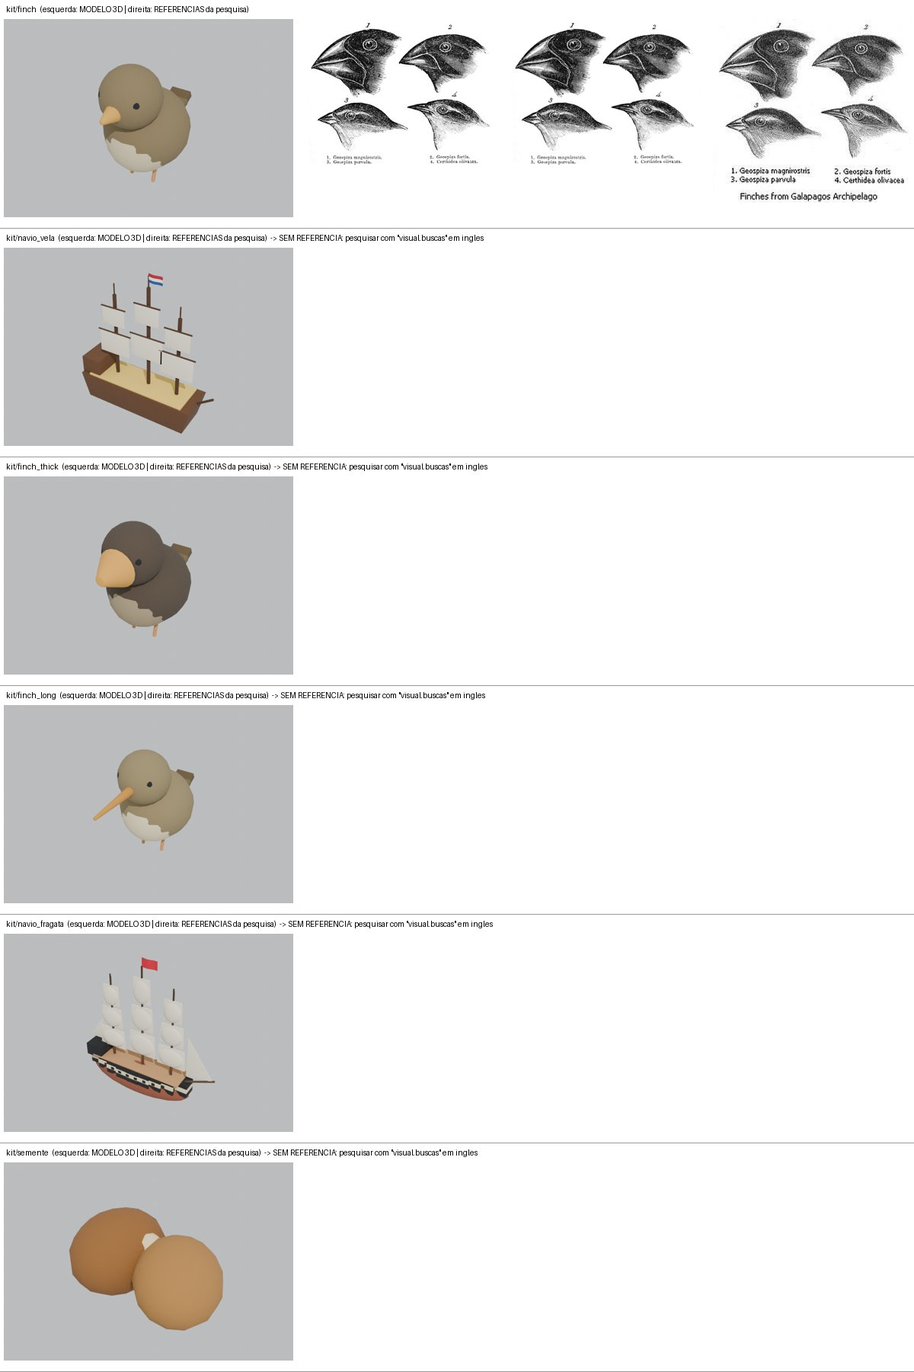
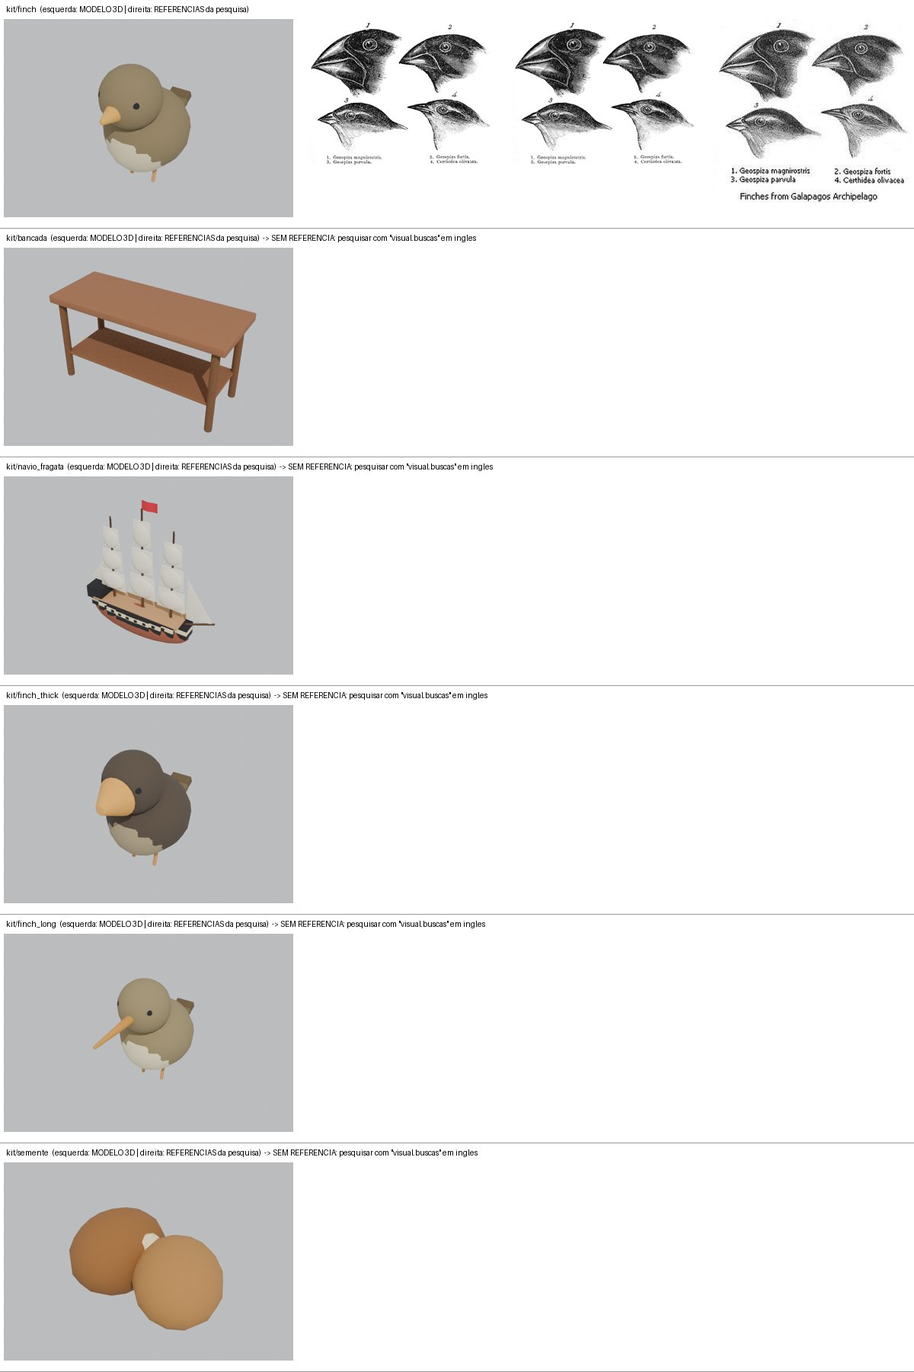
Darwin: storyboard aprovado (tentilhoes em tamanho real, excecao justificada)
Claude-Session: https://claude.ai/code/session_01HE8Dy3UcXXZZMLa7uzjNJD

diff --git a/ferramenta-shorts/stories/darwin1835/folha2_producao.md b/ferramenta-shorts/stories/darwin1835/folha2_producao.md
@@ -11,6 +11,18 @@ Coordenadas de cada cena para modelagem, animacao e camera, com os RISCOS que o 
 - Objetos/modelos: kit/finch, kit/bancada
 - CONFERIR NA FOLHA DE CONTATO (o que a narracao cita tem que aparecer): cientista, etiquetas, terra
 - RISCOS: nenhum
+<!-- FICHA -->
+
+### FICHA TECNICA DA CENA (lugar, camera, personagens, objetos, efeitos, texto)
+- LOCAL: cais de madeira na beira do mar (agua e horizonte ao fundo); hora: day
+- CAMERA: plano medio, 2 personagens de corpo inteiro; plano medio enquadrando personagens e finch juntos (camera a 11.5 m)
+- PERSONAGENS: DAR (cientista) na esquerda, expressao smile; MAR (marinheiro) na direita, expressao surprised; sem multidao; acao: fala/gesto
+- OBJETO kit/finch: MEIO, centro (objeto principal da cena); tamanho na tela: 32% da altura da tela; estado: PARADO; 0.9 m: entre e um pouco atras dos personagens, mesmo plano, tamanho de uma pessoa
+- OBJETO kit/bancada: MEIO, direita; tamanho na tela: 32% da altura da tela; estado: PARADO; 1.3 m: entre e um pouco atras dos personagens, mesmo plano, tamanho de uma pessoa
+- TAKES: 2 takes (troca de angulo a cada ~2.0 s, sem corte seco):
+  - take 1 (0.1-2.1 s): gira 14 graus para a esquerda, camera mais alta, olhando um pouco de cima, um pouco mais longe
+  - take 2 (2.1-4.1 s): gira 8 graus para a direita, camera mais baixa, olhando um pouco de baixo, um pouco mais perto
+<!-- /FICHA -->
 
 ## Cena b1 - Em mil oitocentos e trinta e cinco, Charles Darwin chegou às ilhas Gal...
 - Cenario: harbor | luz: day | clima: limpo
@@ -21,6 +33,19 @@ Coordenadas de cada cena para modelagem, animacao e camera, com os RISCOS que o 
 - Objetos/modelos: kit/navio_fragata, navios de guerra ao fundo, no tamanho real, navio em movimento
 - CONFERIR NA FOLHA DE CONTATO (o que a narracao cita tem que aparecer): ilhas, navio
 - RISCOS: nenhum
+<!-- FICHA -->
+
+### FICHA TECNICA DA CENA (lugar, camera, personagens, objetos, efeitos, texto)
+- LOCAL: cais de madeira na beira do mar (agua e horizonte ao fundo); hora: day
+- CAMERA: plano aberto (cenario inteiro); plano aberto mirando o navio_fragata (alvo z -2.0, camera a 20.0 m, altura 4.0 m), sem multidao na frente
+- PERSONAGENS: MAR (marinheiro) no centro, expressao neutral; sem multidao; acao: fala/gesto
+- OBJETO kit/navio_fragata: FUNDO, centro (objeto principal da cena); tamanho na tela: 30% da altura da tela; estado: CHEGANDO; 46.1 m de altura x 43.9 m: ATRAS dos personagens, de lado, ocupando a largura do quadro (a ponta pode sair da tela); personagens na frente, menores
+- MAPA: GALÁPAGOS (cobre a tela 1-2 s)
+- TAKES: 3 takes (troca de angulo a cada ~1.5 s, sem corte seco):
+  - take 1 (5.2-6.7 s): gira 18 graus para a esquerda, camera mais alta, olhando um pouco de cima, um pouco mais longe
+  - take 2 (6.7-8.2 s): gira 12 graus para a direita, camera mais baixa, olhando um pouco de baixo
+  - take 3 (8.2-9.7 s): mesmo angulo
+<!-- /FICHA -->
 
 ## Cena b2 - Coletou bichos, plantas e uns passarinhos pequenos, de ilha em ilha. A...
 - Cenario: harbor | luz: day | clima: limpo
@@ -31,6 +56,21 @@ Coordenadas de cada cena para modelagem, animacao e camera, com os RISCOS que o 
 - Objetos/modelos: kit/finch, kit/bancada, kit/navio_fragata
 - CONFERIR NA FOLHA DE CONTATO (o que a narracao cita tem que aparecer): beagle, ilha, viagem
 - RISCOS: nenhum
+<!-- FICHA -->
+
+### FICHA TECNICA DA CENA (lugar, camera, personagens, objetos, efeitos, texto)
+- LOCAL: cais de madeira na beira do mar (agua e horizonte ao fundo); hora: day
+- CAMERA: plano aberto (cenario inteiro); plano medio enquadrando personagens e finch juntos (camera a 11.5 m)
+- PERSONAGENS: DAR (cientista) na esquerda, expressao neutral, segura bag; MAR (marinheiro) na direita, expressao smile; sem multidao; acao: fala/gesto
+- OBJETO kit/finch: MEIO, centro (objeto principal da cena); tamanho na tela: 32% da altura da tela; estado: PARADO; 0.9 m: entre e um pouco atras dos personagens, mesmo plano, tamanho de uma pessoa
+- OBJETO kit/bancada: MEIO, direita; tamanho na tela: 32% da altura da tela; estado: PARADO; 1.3 m: entre e um pouco atras dos personagens, mesmo plano, tamanho de uma pessoa
+- OBJETO kit/navio_fragata: FUNDO, direita; tamanho na tela: 18% da altura da tela; estado: PARADO; 46.1 m de altura x 43.9 m: ATRAS dos personagens, de lado, ocupando a largura do quadro (a ponta pode sair da tela); personagens na frente, menores
+- TAKES: 4 takes (troca de angulo a cada ~1.9 s, sem corte seco):
+  - take 1 (10.8-12.7 s): mesmo angulo
+  - take 2 (12.7-14.7 s): gira 16 graus para a direita, camera mais baixa, olhando um pouco de baixo, um pouco mais perto
+  - take 3 (14.7-16.6 s): gira 14 graus para a esquerda, camera mais alta, olhando um pouco de cima, um pouco mais longe
+  - take 4 (16.6-18.5 s): gira 8 graus para a direita, camera mais baixa, olhando um pouco de baixo, um pouco mais perto
+<!-- /FICHA -->
 
 ## Cena b3 - Achou que eram aves bem diferentes, e nem anotou de que ilha vinha cad...
 - Cenario: harbor | luz: day | clima: limpo
@@ -41,6 +81,17 @@ Coordenadas de cada cena para modelagem, animacao e camera, com os RISCOS que o 
 - Objetos/modelos: kit/navio_fragata, kit/finch
 - CONFERIR NA FOLHA DE CONTATO (o que a narracao cita tem que aparecer): -
 - RISCOS: nenhum
+<!-- FICHA -->
+
+### FICHA TECNICA DA CENA (lugar, camera, personagens, objetos, efeitos, texto)
+- LOCAL: cais de madeira na beira do mar (agua e horizonte ao fundo); hora: day
+- CAMERA: plano aberto (cenario inteiro); plano aberto mirando o navio_fragata (alvo z -2.0, camera a 20.0 m, altura 4.0 m), sem multidao na frente
+- PERSONAGENS: DAR (cientista) no centro, expressao suspicious, segura paper; sem multidao; acao: conversar
+- OBJETO kit/navio_fragata: FUNDO, centro (objeto principal da cena); tamanho na tela: 30% da altura da tela; estado: PARADO; 46.1 m de altura x 43.9 m: ATRAS dos personagens, de lado, ocupando a largura do quadro (a ponta pode sair da tela); personagens na frente, menores
+- TAKES: 2 takes (troca de angulo a cada ~1.9 s, sem corte seco):
+  - take 1 (19.6-21.5 s): gira 18 graus para a esquerda, camera mais alta, olhando um pouco de cima, um pouco mais longe
+  - take 2 (21.5-23.3 s): gira 12 graus para a direita, camera mais baixa, olhando um pouco de baixo
+<!-- /FICHA -->
 
 ## Cena b4 - Em Londres, o especialista John Gould revelou: eram todos tentilhões, ...
 - Cenario: interior pedra | luz: day | clima: limpo
@@ -51,6 +102,19 @@ Coordenadas de cada cena para modelagem, animacao e camera, com os RISCOS que o 
 - Objetos/modelos: kit/finch, kit/bancada
 - CONFERIR NA FOLHA DE CONTATO (o que a narracao cita tem que aparecer): especialista, especies
 - RISCOS: nenhum
+<!-- FICHA -->
+
+### FICHA TECNICA DA CENA (lugar, camera, personagens, objetos, efeitos, texto)
+- LOCAL: sala de pedra (governo/castelo); hora: day
+- CAMERA: plano de grupo (3+ pessoas); plano medio enquadrando personagens e finch juntos (camera a 8.0 m)
+- PERSONAGENS: GOU (cientista) no centro, expressao smug, segura paper; sem multidao; acao: discutir
+- OBJETO kit/finch: MEIO, direita (objeto principal da cena); tamanho na tela: 32% da altura da tela; estado: PARADO; 0.9 m: ao lado do personagem, mesmo plano, tamanho de uma pessoa
+- OBJETO kit/bancada: MEIO, direita; tamanho na tela: 32% da altura da tela; estado: PARADO; 1.3 m: ao lado do personagem, mesmo plano, tamanho de uma pessoa
+- TAKES: 3 takes (troca de angulo a cada ~1.5 s, sem corte seco):
+  - take 1 (24.4-25.9 s): gira 16 graus para a direita, camera mais baixa, olhando um pouco de baixo, um pouco mais perto
+  - take 2 (25.9-27.5 s): gira 14 graus para a esquerda, camera mais alta, olhando um pouco de cima, um pouco mais longe
+  - take 3 (27.5-29.0 s): gira 8 graus para a direita, camera mais baixa, olhando um pouco de baixo, um pouco mais perto
+<!-- /FICHA -->
 
 ## Cena b5 - A diferença estava no bico: uns grossos para quebrar sementes, outros ...
 - Cenario: interior madeira | luz: day | clima: limpo
@@ -61,6 +125,24 @@ Coordenadas de cada cena para modelagem, animacao e camera, com os RISCOS que o 
 - Objetos/modelos: kit/finch_thick, kit/finch_long, kit/bancada
 - CONFERIR NA FOLHA DE CONTATO (o que a narracao cita tem que aparecer): bico, diferenca
 - RISCOS: nenhum
+<!-- FICHA -->
+
+### FICHA TECNICA DA CENA (lugar, camera, personagens, objetos, efeitos, texto)
+- LOCAL: sala de madeira; hora: day
+- CAMERA: plano medio, 2 personagens de corpo inteiro; plano medio enquadrando personagens e finch_thick juntos (camera a 11.5 m)
+- PERSONAGENS: GOU (cientista) na esquerda, expressao smile; DAR (cientista) na direita, expressao surprised; sem multidao; acao: fala/gesto
+- OBJETO kit/finch_thick: MEIO, centro (objeto principal da cena); tamanho na tela: 32% da altura da tela; estado: PARADO; 0.9 m: entre e um pouco atras dos personagens, mesmo plano, tamanho de uma pessoa
+- OBJETO kit/finch_long: MEIO, direita; tamanho na tela: 32% da altura da tela; estado: PARADO; 0.9 m: entre e um pouco atras dos personagens, mesmo plano, tamanho de uma pessoa
+- OBJETO kit/bancada: MEIO, esquerda; tamanho na tela: 32% da altura da tela; estado: PARADO; 1.3 m: entre e um pouco atras dos personagens, mesmo plano, tamanho de uma pessoa
+- EFEITO poeira nos pes: no chao, aos pes; entra no quadro +40 da cena
+- EFEITO estrelinhas sobre a cabeca (susto/tontura): acima da cabeca; entra no quadro +60 da cena
+- SOM: thump@40
+- SOM: ding@60
+- TAKES: 3 takes (troca de angulo a cada ~1.6 s, sem corte seco):
+  - take 1 (30.5-32.1 s): gira 8 graus para a direita, camera mais baixa, olhando um pouco de baixo, um pouco mais perto
+  - take 2 (32.1-33.8 s): gira 18 graus para a esquerda, camera mais alta, olhando um pouco de cima, um pouco mais longe
+  - take 3 (33.8-35.4 s): gira 12 graus para a direita, camera mais baixa, olhando um pouco de baixo
+<!-- /FICHA -->
 
 ## Cena b6 - Acontece que, em cada ilha, o bico tinha mudado de acordo com a comida...
 - Cenario: harbor | luz: day | clima: limpo
@@ -71,6 +153,22 @@ Coordenadas de cada cena para modelagem, animacao e camera, com os RISCOS que o 
 - Objetos/modelos: kit/finch_thick, kit/finch_long, kit/finch, kit/bancada
 - CONFERIR NA FOLHA DE CONTATO (o que a narracao cita tem que aparecer): acordo, bico, comida
 - RISCOS: nenhum
+<!-- FICHA -->
+
+### FICHA TECNICA DA CENA (lugar, camera, personagens, objetos, efeitos, texto)
+- LOCAL: cais de madeira na beira do mar (agua e horizonte ao fundo); hora: day
+- CAMERA: plano medio, 2 personagens de corpo inteiro; plano medio enquadrando personagens e finch juntos (camera a 11.5 m)
+- PERSONAGENS: DAR (cientista) na esquerda, expressao shock; GOU (cientista) na direita, expressao surprised; sem multidao; acao: fala/gesto
+- OBJETO kit/finch: MEIO, centro (objeto principal da cena); tamanho na tela: 32% da altura da tela; estado: PARADO; 0.9 m: entre e um pouco atras dos personagens, mesmo plano, tamanho de uma pessoa
+- OBJETO kit/finch_thick: MEIO, direita; tamanho na tela: 32% da altura da tela; estado: PARADO; 0.9 m: entre e um pouco atras dos personagens, mesmo plano, tamanho de uma pessoa
+- OBJETO kit/finch_long: MEIO, esquerda; tamanho na tela: 32% da altura da tela; estado: PARADO; 0.9 m: entre e um pouco atras dos personagens, mesmo plano, tamanho de uma pessoa
+- OBJETO kit/bancada: MEIO, direita; tamanho na tela: 32% da altura da tela; estado: PARADO; 1.3 m: entre e um pouco atras dos personagens, mesmo plano, tamanho de uma pessoa
+- EFEITO anel de impacto: acima da cabeca; entra no quadro +40 da cena
+- EFEITO estrelinhas sobre a cabeca (susto/tontura): acima da cabeca; entra no quadro +60 da cena
+- SOM: ding@40
+- SOM: sting@60
+- TAKES: sequencia de acao em 3 cameras (3.7 s): 1) plano medio baixo na tropa (30%); 2) travelling lateral acompanhando a acao (25%); 3) grua subindo ate a vista de cima do campo (45%)
+<!-- /FICHA -->
 
 ## Cena b7 - Os bichos com o bico certo sobreviviam melhor, e passavam isso para os...
 - Cenario: interior madeira | luz: day | clima: limpo
@@ -81,6 +179,18 @@ Coordenadas de cada cena para modelagem, animacao e camera, com os RISCOS que o 
 - Objetos/modelos: kit/finch_thick, kit/bancada
 - CONFERIR NA FOLHA DE CONTATO (o que a narracao cita tem que aparecer): bichos, bico, filhos
 - RISCOS: nenhum
+<!-- FICHA -->
+
+### FICHA TECNICA DA CENA (lugar, camera, personagens, objetos, efeitos, texto)
+- LOCAL: sala de madeira; hora: day
+- CAMERA: plano de grupo (3+ pessoas); plano medio enquadrando personagens e finch_thick juntos (camera a 8.0 m)
+- PERSONAGENS: DAR (cientista) no centro, expressao smile; sem multidao; acao: cochichar
+- OBJETO kit/finch_thick: MEIO, direita (objeto principal da cena); tamanho na tela: 32% da altura da tela; estado: PARADO; 0.9 m: ao lado do personagem, mesmo plano, tamanho de uma pessoa
+- OBJETO kit/bancada: MEIO, direita; tamanho na tela: 32% da altura da tela; estado: PARADO; 1.3 m: ao lado do personagem, mesmo plano, tamanho de uma pessoa
+- TAKES: 2 takes (troca de angulo a cada ~2.0 s, sem corte seco):
+  - take 1 (41.6-43.5 s): gira 14 graus para a esquerda, camera mais alta, olhando um pouco de cima, um pouco mais longe
+  - take 2 (43.5-45.5 s): gira 8 graus para a direita, camera mais baixa, olhando um pouco de baixo, um pouco mais perto
+<!-- /FICHA -->
 
 ## Cena b8 - Essa ideia virou a seleção natural, publicada em mil oitocentos e cinq...
 - Cenario: interior madeira | luz: day | clima: limpo
@@ -91,6 +201,17 @@ Coordenadas de cada cena para modelagem, animacao e camera, com os RISCOS que o 
 - Objetos/modelos: -
 - CONFERIR NA FOLHA DE CONTATO (o que a narracao cita tem que aparecer): selecao
 - RISCOS: nenhum
+<!-- FICHA -->
+
+### FICHA TECNICA DA CENA (lugar, camera, personagens, objetos, efeitos, texto)
+- LOCAL: sala de madeira; hora: day
+- CAMERA: plano medio, 2 personagens de corpo inteiro
+- PERSONAGENS: DAR (cientista) na esquerda, expressao grin, segura book; GOU (cientista) na direita, expressao laugh; sem multidao; acao: comemorar
+- OBJETOS: so cenario (nenhum objeto da historia nesta cena)
+- TAKES: 2 takes (troca de angulo a cada ~2.0 s, sem corte seco):
+  - take 1 (46.6-48.5 s): gira 12 graus para a direita, camera mais baixa, olhando um pouco de baixo
+  - take 2 (48.5-50.5 s): mesmo angulo
+<!-- /FICHA -->
 
 ## Cena b9 - No fim, o erro das etiquetas virou um acerto de bico.
 - Cenario: countryside | luz: day | clima: limpo
@@ -101,6 +222,18 @@ Coordenadas de cada cena para modelagem, animacao e camera, com os RISCOS que o 
 - Objetos/modelos: kit/finch, kit/bancada
 - CONFERIR NA FOLHA DE CONTATO (o que a narracao cita tem que aparecer): acerto, bico, erro, etiquetas
 - RISCOS: nenhum
+<!-- FICHA -->
+
+### FICHA TECNICA DA CENA (lugar, camera, personagens, objetos, efeitos, texto)
+- LOCAL: vila rural (casas, cercas, campo); hora: day
+- CAMERA: plano medio, 2 personagens de corpo inteiro; plano medio enquadrando personagens e finch juntos (camera a 8.0 m)
+- PERSONAGENS: DAR (cientista) no centro, expressao smug; sem multidao; acao: fala/gesto
+- OBJETO kit/finch: MEIO, direita (objeto principal da cena); tamanho na tela: 32% da altura da tela; estado: PARADO; 0.9 m: ao lado do personagem, mesmo plano, tamanho de uma pessoa
+- OBJETO kit/bancada: MEIO, direita; tamanho na tela: 32% da altura da tela; estado: PARADO; 1.3 m: ao lado do personagem, mesmo plano, tamanho de uma pessoa
+- TAKES: 2 takes (troca de angulo a cada ~1.4 s, sem corte seco):
+  - take 1 (51.5-52.9 s): gira 16 graus para a direita, camera mais baixa, olhando um pouco de baixo, um pouco mais perto
+  - take 2 (52.9-54.2 s): gira 14 graus para a esquerda, camera mais alta, olhando um pouco de cima, um pouco mais longe
+<!-- /FICHA -->
 
 ## Cena b10 - Agora não deixe de comentar: qual deve ser o tema do próximo vídeo?
 - Cenario: countryside | luz: day | clima: limpo
@@ -135,3 +268,12 @@ kit/finch_long | b5, b6 | pronto | conferir na folha de contato se le bem; se pa
 - Defeito em poucas cenas e narracao igual: corrija o beats.json e `./refazer.sh darwin1835 bN bM` (so essas cenas).
 - Mudou narracao, ferramenta ou muitas cenas: `./refazer_tudo.sh darwin1835` (render completo).
 - Personagem cortado: tire gente do "who" ou use "shot": "group". Cena vazia: confira "who". Objeto fora do quadro: ponha em "props" com x entre -2 e 2. Luz estourada: "hora"/"clima" na cena.
+<!-- FICHA -->
+
+### FICHA TECNICA DA CENA (lugar, camera, personagens, objetos, efeitos, texto)
+- (sem ficha)
+- TAKES: 2 takes (troca de angulo a cada ~1.7 s, sem corte seco):
+  - take 1 (55.3-57.0 s): gira 8 graus para a direita, camera mais baixa, olhando um pouco de baixo, um pouco mais perto
+  - take 2 (57.0-58.6 s): gira 18 graus para a esquerda, camera mais alta, olhando um pouco de cima, um pouco mais longe
+<!-- /FICHA -->
+

diff --git a/ferramenta-shorts/stories/darwin1835/folha3_acao.md b/ferramenta-shorts/stories/darwin1835/folha3_acao.md
@@ -14,6 +14,12 @@ Catalogo de TODAS as acoes do roteiro, frase por frase, com o instante (segundos
 |---|---|---|---|---|
 | 1 | - | INTERACAO | vai ate o outro | OK |
 | 2 | - | ATUACAO | conversar | OK |
+<!-- FISICA -->
+
+**FISICA E MOVIMENTO (como cada acao acontece na tela):**
+- INTERACAO (a cena toda): executa: vai ate o outro
+- ATUACAO (a cena toda): executa: conversar
+<!-- /FISICA -->
 
 ## Cena b1 - 5.2s a 9.7s - 16 palavras - plano wide
 > "Em mil oitocentos e trinta e cinco, Charles Darwin chegou às ilhas Galápagos, no navio Beagle."
@@ -26,6 +32,14 @@ Catalogo de TODAS as acoes do roteiro, frase por frase, com o instante (segundos
 | 1 | chegou (7.7s) | EFEITO: dust | poeira + som | OK |
 | 2 | chegou (7.7s) | ACAO: chega | entra andando pela lateral | OK |
 | 3 | - | MAPA | GALÁPAGOS | OK |
+<!-- FISICA -->
+
+**FISICA E MOVIMENTO (como cada acao acontece na tela):**
+- EFEITO: dust na palavra chegou (7.7s): executa: poeira + som
+- ACAO: chega na palavra chegou (7.7s): executa: entra andando pela lateral
+- MAPA (a cena toda): mapa entra em ~0,3 s e cobre a tela por 1-2 s, com o ponto do lugar pulsando
+- kit/navio_fragata CHEGANDO: entra pela esquerda do quadro e desliza ate o lugar da ficha em ~85% da cena (velocidade constante, sem tremer)
+<!-- /FISICA -->
 
 ## Cena b2 - 10.8s a 18.5s - 24 palavras - plano wide
 > "Coletou bichos, plantas e uns passarinhos pequenos, de ilha em ilha. A viagem do Beagle durou quase cinco anos, dando a volta ao mundo."
@@ -36,6 +50,11 @@ Catalogo de TODAS as acoes do roteiro, frase por frase, com o instante (segundos
 | # | palavra (instante) | acao catalogada | animacao executada | ok? |
 |---|---|---|---|---|
 | 1 | Coletou (10.8s) | ACAO: pega | levanta/segura | OK |
+<!-- FISICA -->
+
+**FISICA E MOVIMENTO (como cada acao acontece na tela):**
+- ACAO: pega na palavra Coletou (10.8s): executa: levanta/segura
+<!-- /FISICA -->
 
 ## Cena b3 - 19.6s a 23.3s - 15 palavras - plano wide
 > "Achou que eram aves bem diferentes, e nem anotou de que ilha vinha cada uma."
@@ -48,6 +67,13 @@ Catalogo de TODAS as acoes do roteiro, frase por frase, com o instante (segundos
 | 1 | Achou (19.6s) | ACAO: olha | aponta/olha | OK |
 | 2 | - | GRANDE MOMENTO | plano de impacto: efeito + som na palavra-chave (sem tiro) | OK |
 | 3 | - | ATUACAO | conversar | OK |
+<!-- FISICA -->
+
+**FISICA E MOVIMENTO (como cada acao acontece na tela):**
+- ACAO: olha na palavra Achou (19.6s): braco estendido apontando para o objeto/lugar citado
+- GRANDE MOMENTO (a cena toda): clarao no cano da arma por ~0,25 s + estampido; a arma recua; o alvo (se houver) tomba
+- ATUACAO (a cena toda): executa: conversar
+<!-- /FISICA -->
 
 ## Cena b4 - 24.4s a 29.0s - 13 palavras - plano group
 > "Em Londres, o especialista John Gould revelou: eram todos tentilhões, de espécies diferentes."
@@ -58,6 +84,11 @@ Catalogo de TODAS as acoes do roteiro, frase por frase, com o instante (segundos
 | # | palavra (instante) | acao catalogada | animacao executada | ok? |
 |---|---|---|---|---|
 | 1 | revelou (26.3s) | ACAO: fala | aponta explicando | OK |
+<!-- FISICA -->
+
+**FISICA E MOVIMENTO (como cada acao acontece na tela):**
+- ACAO: fala na palavra revelou (26.3s): braco estendido apontando para o objeto/lugar citado
+<!-- /FISICA -->
 
 ## Cena b5 - 30.5s a 35.4s - 15 palavras - plano two
 > "A diferença estava no bico: uns grossos para quebrar sementes, outros finos para pegar insetos."
@@ -71,6 +102,13 @@ Catalogo de TODAS as acoes do roteiro, frase por frase, com o instante (segundos
 | 1 | - | CENA | objeto: finch_thick quebra (na palavra "quebrar") | OK |
 | 2 | - | INTERACAO | aproxima-se | OK |
 | 3 | - | ATUACAO | conversar | OK |
+<!-- FISICA -->
+
+**FISICA E MOVIMENTO (como cada acao acontece na tela):**
+- CENA (a cena toda): executa: objeto: finch_thick quebra (na palavra "quebrar")
+- INTERACAO (a cena toda): executa: aproxima-se
+- ATUACAO (a cena toda): executa: conversar
+<!-- /FISICA -->
 
 ## Cena b6 - 36.7s a 40.4s - 14 palavras - plano two
 > "Acontece que, em cada ilha, o bico tinha mudado de acordo com a comida."
@@ -83,6 +121,13 @@ Catalogo de TODAS as acoes do roteiro, frase por frase, com o instante (segundos
 | 1 | - | GRANDE MOMENTO | plano de impacto: efeito + som na palavra-chave (sem tiro) | OK |
 | 2 | - | INTERACAO | cochichar | OK |
 | 3 | - | ATUACAO | reagir | OK |
+<!-- FISICA -->
+
+**FISICA E MOVIMENTO (como cada acao acontece na tela):**
+- GRANDE MOMENTO (a cena toda): clarao no cano da arma por ~0,25 s + estampido; a arma recua; o alvo (se houver) tomba
+- INTERACAO (a cena toda): executa: cochichar
+- ATUACAO (a cena toda): executa: reagir
+<!-- /FISICA -->
 
 ## Cena b7 - 41.6s a 45.5s - 14 palavras - plano group
 > "Os bichos com o bico certo sobreviviam melhor, e passavam isso para os filhos."
@@ -93,6 +138,11 @@ Catalogo de TODAS as acoes do roteiro, frase por frase, com o instante (segundos
 | # | palavra (instante) | acao catalogada | animacao executada | ok? |
 |---|---|---|---|---|
 | 1 | - | ATUACAO | conversar | OK |
+<!-- FISICA -->
+
+**FISICA E MOVIMENTO (como cada acao acontece na tela):**
+- ATUACAO (a cena toda): executa: conversar
+<!-- /FISICA -->
 
 ## Cena b8 - 46.6s a 50.5s - 14 palavras - plano two
 > "Essa ideia virou a seleção natural, publicada em mil oitocentos e cinquenta e nove."
@@ -105,6 +155,13 @@ Catalogo de TODAS as acoes do roteiro, frase por frase, com o instante (segundos
 | 1 | ideia (46.9s) | ACAO: pensa | mao no queixo + brilho de ideia | OK |
 | 2 | - | INTERACAO | pular | OK |
 | 3 | - | ATUACAO | comemorar | OK |
+<!-- FISICA -->
+
+**FISICA E MOVIMENTO (como cada acao acontece na tela):**
+- ACAO: pensa na palavra ideia (46.9s): executa: mao no queixo + brilho de ideia
+- INTERACAO (a cena toda): executa: pular
+- ATUACAO (a cena toda): bracos para cima e pulinhos curtos durante a frase
+<!-- /FISICA -->
 
 ## Cena b9 - 51.5s a 54.2s - 11 palavras - plano two
 > "No fim, o erro das etiquetas virou um acerto de bico."
@@ -115,6 +172,11 @@ Catalogo de TODAS as acoes do roteiro, frase por frase, com o instante (segundos
 | # | palavra (instante) | acao catalogada | animacao executada | ok? |
 |---|---|---|---|---|
 | 1 | - | ATUACAO | conversar | OK |
+<!-- FISICA -->
+
+**FISICA E MOVIMENTO (como cada acao acontece na tela):**
+- ATUACAO (a cena toda): executa: conversar
+<!-- /FISICA -->
 
 ## Cena b10 - 55.3s a 58.6s - 13 palavras - plano close
 > "Agora não deixe de comentar: qual deve ser o tema do próximo vídeo?"
@@ -123,4 +185,10 @@ Catalogo de TODAS as acoes do roteiro, frase por frase, com o instante (segundos
 |---|---|---|---|---|
 | 1 | - | ATUACAO | conversar | OK |
 | 2 | - | PLACA | COMENTE! | OK |
+<!-- FISICA -->
+
+**FISICA E MOVIMENTO (como cada acao acontece na tela):**
+- ATUACAO (a cena toda): executa: conversar
+- PLACA (a cena toda): texto entra com um pulo de escala (~0,2 s) e fica ate o fim da cena
+<!-- /FISICA -->
 

diff --git a/ferramenta-shorts/stories/darwin1835/revisao_storyboard.md b/ferramenta-shorts/stories/darwin1835/revisao_storyboard.md
@@ -1,0 +1,13 @@
+b0: OK - cientista misturou as etiquetas dos passarinhos: Darwin e o marinheiro no cais com o tentilhao na bancada
+b1: OK - Darwin chegou as ilhas Galapagos no navio Beagle: mapa das Galapagos e o navio de velas no porto
+b2: OK - coletou bichos e passarinhos de ilha em ilha: Darwin e o marinheiro com o tentilhao na bancada e o Beagle ao fundo
+b3: OK - achou que eram aves diferentes e nem anotou a ilha: Darwin com o papel no cais, Beagle atras
+b4: OK - em Londres o especialista John Gould revelou: Gould com o papel na sala e o tentilhao na bancada
+b5: OK - diferenca no bico, grossos para sementes e finos para insetos: Darwin e Gould com os dois tentilhoes na bancada
+b6: OK - em cada ilha o bico tinha mudado: Darwin espantado no cais com os tres tentilhoes
+b7: OK - bichos com o bico certo sobreviviam: Darwin com o tentilhao de bico grosso na bancada
+b8: OK - selecao natural publicada em 1859: Darwin com o livro e Gould comemorando
+b9: OK - o erro das etiquetas virou acerto de bico: Darwin sorrindo no campo com o tentilhao na bancada
+b10: OK - chamada final COMENTE com Darwin rindo
+pesquisa: viagem do HMS Beagle 1831-1836, Galapagos em 1835, tentilhoes coletados sem anotar a ilha, John Gould em Londres em 1837, bicos grossos e finos, A Origem das Especies em 1859
+defeitos procurados: cenario (porto das Galapagos com o Beagle, sala em Londres, campo ingles) OK; epoca (1835, navio de velas, roupas de epoca) OK; tamanho (tentilhoes pequenos na bancada, navio ao fundo) OK; cortado (ninguem cortado, navio sem tapar a camera) OK; multidao (nenhuma, cenas intimas) OK; legenda (sem placa cobrindo legenda) OK; acao (coletar, revelar, espanto, comemorar) OK; objeto (tentilhoes e navio visiveis quando citados) OK

diff --git a/ferramenta-shorts/stories/darwin1835/cronograma.md b/ferramenta-shorts/stories/darwin1835/cronograma.md
@@ -1,6 +1,6 @@
 # CRONOGRAMA - Curiosidade e Ciência EP 08 - Darwin e os Tentilhões
 
-Gerado em 25/11 08:55 | 11 cenas | metricas: acoes_encenadas 100%, acoes_chave_com_efeito 100%, explicacoes_cobertas 100%, cenario_e_epoca_ok 100%
+Gerado em 25/11 08:57 | 11 cenas | metricas: acoes_encenadas 100%, acoes_chave_com_efeito 100%, explicacoes_cobertas 100%, cenario_e_epoca_ok 100%
 
 ## 1. Plano de cenas (o que cada frase vai mostrar)
 
